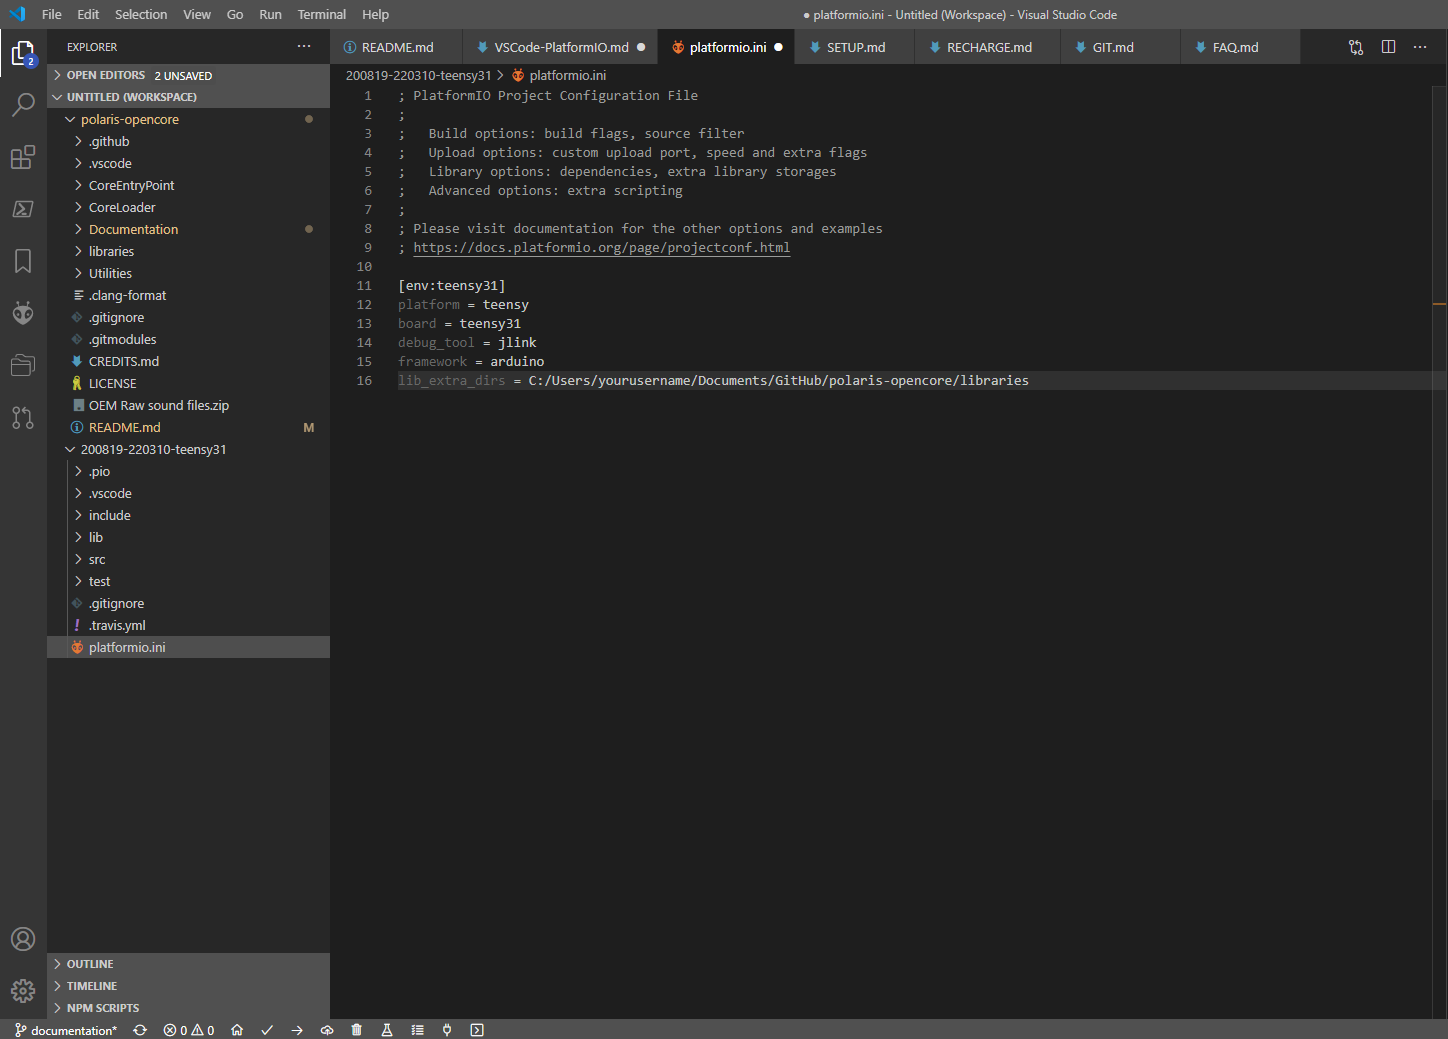
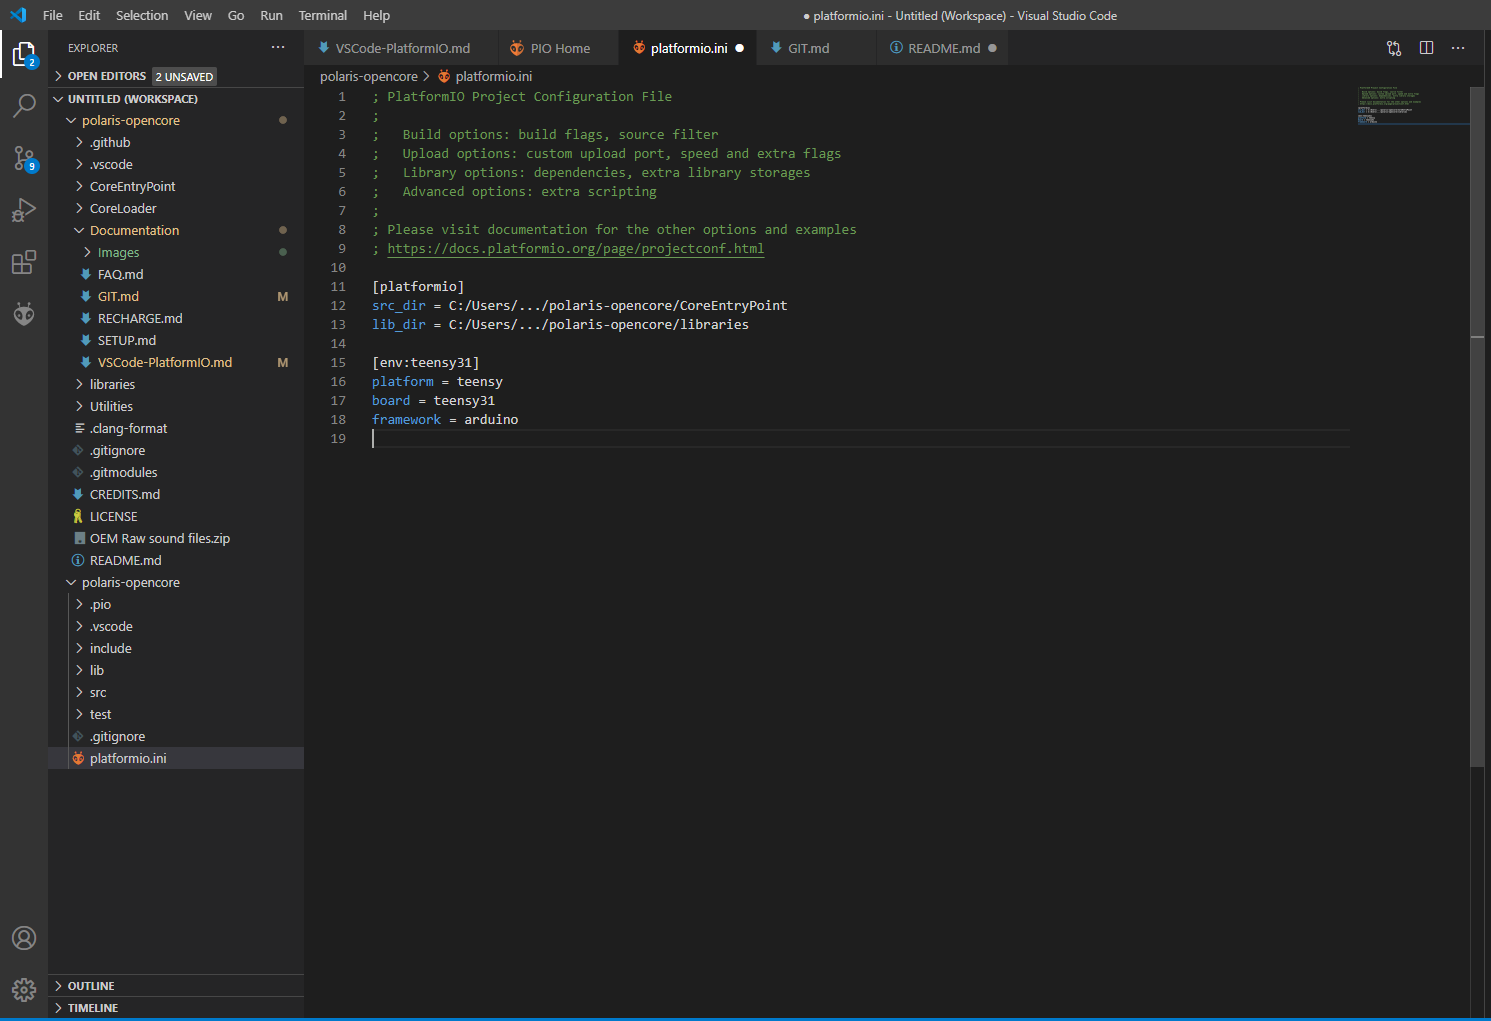
Added Council images and PlatformIO guide update

diff --git a/Documentation/VSCode-PlatformIO.md b/Documentation/VSCode-PlatformIO.md
@@ -11,7 +11,7 @@ Then, look for the folder containing your local version of the repository.
 
 You should have something like this:
 
-![Visual Studio Code Welcome for Windows](Images/Setup/visual-studio-code-welcome-windows.jpg)
+![Visual Studio Code Welcome for Windows](Images/PlatformIO/00-open.jpg)
 
 Once you are there, you will need PlatformIO extensions.
 
@@ -19,20 +19,22 @@ To do so, you can click on *View > Extensions*.
 
 Look for the PlatformIO extension and install it.
 
-After the installation you need to click on the *Import Arduino Project* on the PlatformIO home page.
+After the installation you need to click on the *New Project* on the PlatformIO home page.
 
-![PlatformIO import](Images/PlatformIO/01-import.png)
+In the new project dialog you have to choose a name fopr the project and select ***Teensy 3.1 / 3.2***. Optionally, you can choose a custom the folder for the PlatformIO files (default location is in Documents\PlatformIO). This folder is not related to the GitHub folder.
 
-In the import dialog you have to choose ***Teensy 3.1 / 3.2*** and you have to select the folder in you local copy of the repository which contains the *CoreEntryPoint.ino* file.
-
-![PlatformIO select board](Images/PlatformIO/02-select-board.png)
+![PlatformIO import](Images/PlatformIO/01-new.jpg)
 
 The PlatformIO extension will create a new project based on the selection.
 
 You can see a new folder on the workspace on the right with a file called *platformio.ini*
 
 Now you have to edit this file, adding a line to include the library folder of your local copy of the repository:
-`lib_extra_dirs = C:/Users/yourusername/Documents/GitHub/polaris-opencore/libraries`
+```
+[platformio]
+src_dir = C:/Users/.../polaris-opencore/CoreEntryPoint
+lib_dir = C:/Users/.../polaris-opencore/libraries
+```
 
 ![PlatformIO config](Images/PlatformIO/03-config.png)
 

diff --git a/README.md b/README.md
@@ -77,10 +77,9 @@ This new release candidate is testes by selected developers and, if all the test
 ---
 
 ## Coulcil members
-| Name1 | Name2 |
-| :---: | :---: |
-| ![Polaris Anima EVO](https://www.lamadiluce.it/wp-content/uploads/2020/06/FBcover-01-e1596115323936.png) | ![Polaris Anima EVO](https://www.lamadiluce.it/wp-content/uploads/2020/06/FBcover-01-e1596115323936.png) |
-
+| Daniele *"dankenObi"* | Andrea *"AnFive"* | Carlos *"karldeux"* | Fabio | Davide "*FarFlyer"* | Ian *"Nuntis"* |
+| :---: | :---: | :---: | :---: | :---: | :---: |
+| <img src="Documentation/Images/Council/Daniele.jpg" alt="Daniele" title="Daniele" height="80"/> | <img src="Documentation/Images/Council/Andrea.jpg" alt="Andrea" title="Andrea" height="80"/> | <img src="Documentation/Images/Council/Carlos.jpg" alt="Carlos" title="Carlos" height="80"/> | <img src="Documentation/Images/Council/Fabio.jpg" alt="Fabio" title="Fabio" height="80"/> |  <img src="Documentation/Images/Council/Davide.jpg" alt="Davide" title="Davide" height="80"/> | <img src="Documentation/Images/Council/Ian.jpg" alt="Ian" title="Ian" height="80"/> |
 
 ---
 

diff --git a/Documentation/GIT.md b/Documentation/GIT.md
@@ -22,9 +22,17 @@ There follow a quick overview of the first steps for the different OS:
 
 ## Windows setup
 
+The first step is to install [Git bash](https://git-scm.com/download/win).
+
+If you are an experience user or you like the command line you only need to clone the repository:
+
+```
+$ cd myWorkingDir
+$ git clone https://github.com/myGithubUser/polaris-opencore.git && cd polaris-opencore && git submodule update
+```
+
 If you are new to Git we racommand to use [GitHub Desktop](https://desktop.github.com/).
 
-You can also  install the [Git bash](https://git-scm.com/download/win) too so you can perform git command in case of need.
 
 1. Install [GitHub Desktop](https://desktop.github.com/)
 2. Create a ***fork*** of the polaris-opencore repository on the [GitHub website](https://github.com/LamaDiLuce/polaris-opencore)
